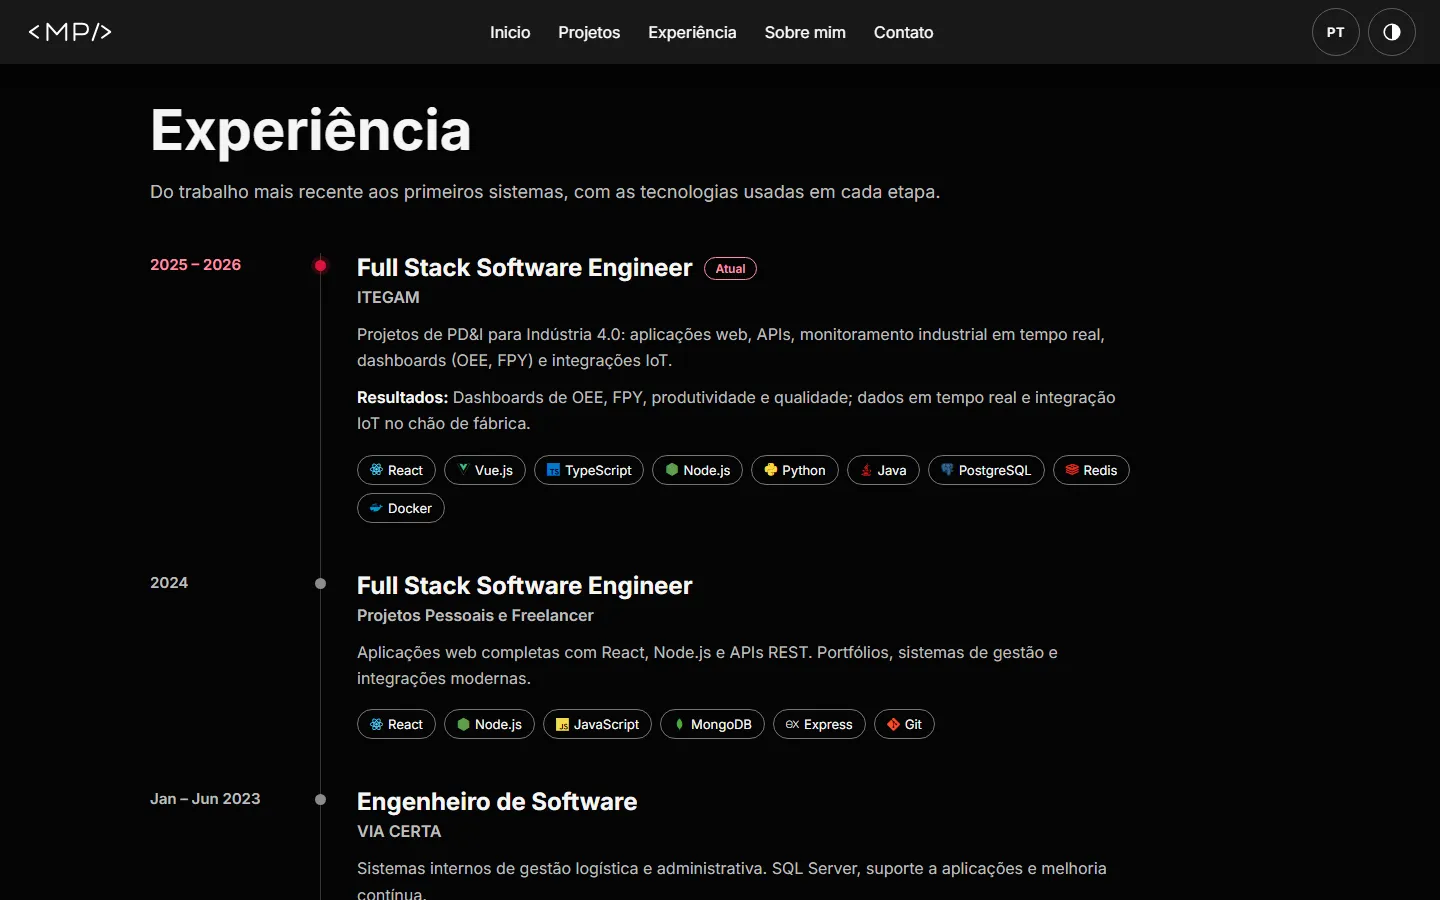
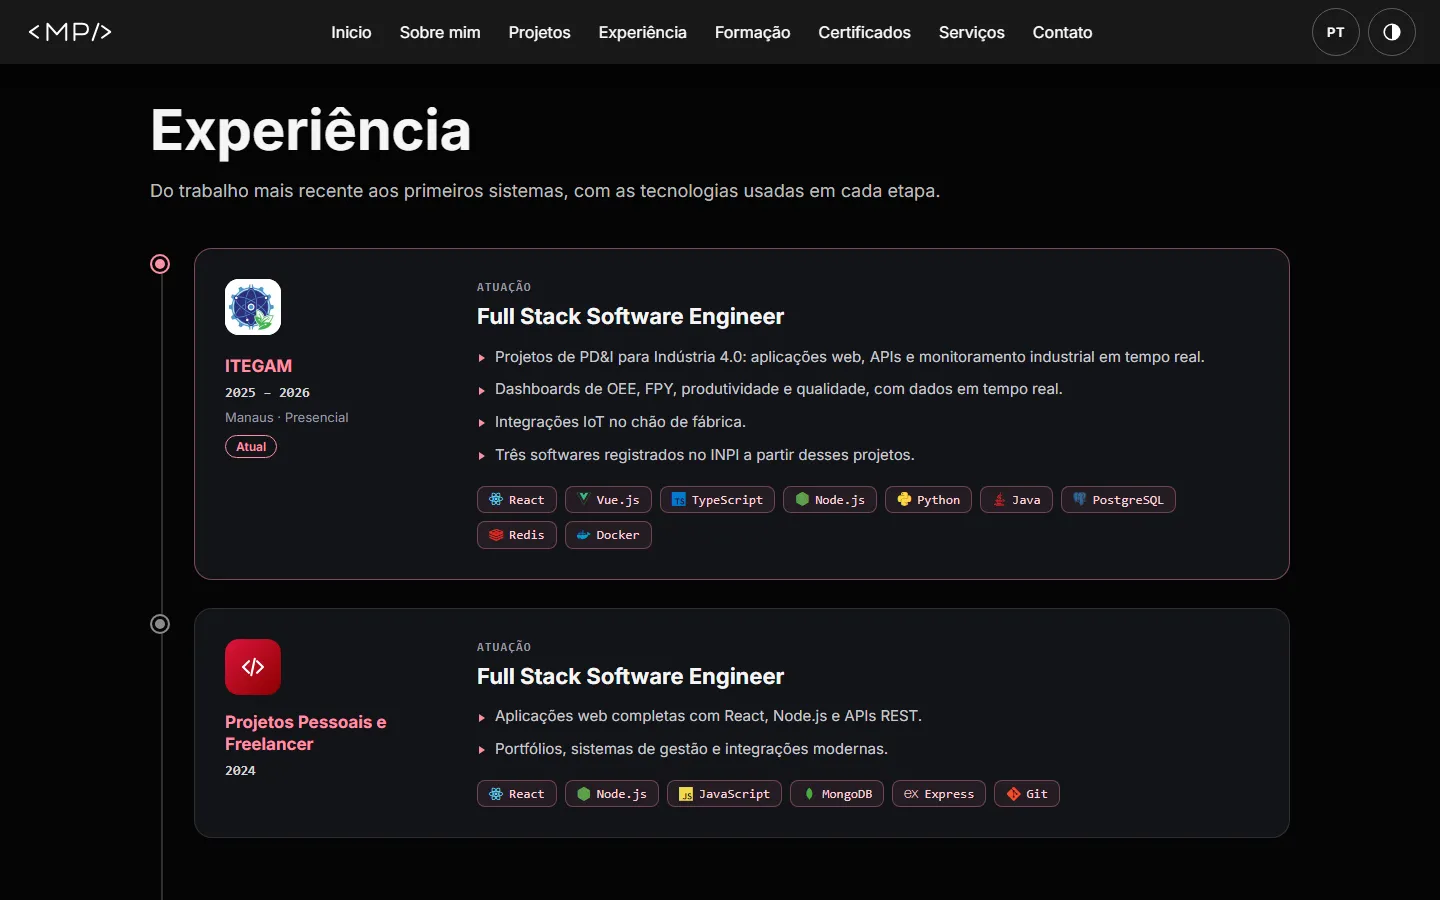
Atualiza as prévias e as seções do README.
- 14 capturas do site atual, na ordem da página, com Formação, Certificados e o visualizador aberto.
- O script espera um título completo no "Eu sou …" antes de capturar o início.
- Lista de seções na ordem atual e sem o Typed.js, que o site não usa mais.

diff --git a/README.md b/README.md
@@ -16,11 +16,17 @@ Portfólio pessoal em React, com projetos, experiência, formação e contato em
 
 ### Início
 
-![Tela inicial com o logo MP, a apresentação, a janela de código matheus.js e os botões Falar comigo e Baixar CV](readme-assets/inicio.webp)
+Nome, títulos que se alternam no "Eu sou …", janela de código com abas e os botões Ver projetos e Falar comigo.
+
+![Tela inicial em vermelho com o nome Matheus Pereira, o texto Eu sou Dev Front-end, a janela de código matheus.js e os botões Ver projetos e Falar comigo](readme-assets/inicio.webp)
+
+### Sobre mim
+
+![Seção Sobre mim com o título Transformo ideias complexas em soluções digitais inteligentes, escaláveis e de alto impacto, o resumo profissional e a foto animada](readme-assets/sobre.webp)
 
 ### Projetos
 
-Carrossel com contador e setas, botão para o GitHub e, nos projetos com deploy, botão para ver o projeto.
+Carrossel com contador e setas. Cada cartão abre um modal com detalhes, botão para o GitHub e, nos projetos com deploy, botão para ver o projeto.
 
 ![Seção Meus Projetos no tema escuro, com o carrossel de cartões](readme-assets/projetos.webp)
 
@@ -33,15 +39,28 @@ Carrossel com contador e setas, botão para o GitHub e, nos projetos com deploy,
 
 ### Experiência
 
-![Linha do tempo de experiência, com o trabalho mais recente primeiro](readme-assets/experiencia.webp)
+![Linha do tempo de experiência, com o trabalho mais recente primeiro e os ícones das tecnologias](readme-assets/experiencia.webp)
 
-### Sobre mim e formação
+### Formação
 
-![Seção Sobre mim com foto, apresentação e lista de formação](readme-assets/sobre.webp)
+![Formação Acadêmica com os cartões da FAMETRO e do ICBEU](readme-assets/formacao.webp)
+
+### Certificados e registros
+
+Registros de software no INPI e cursos no mesmo formato de cartão. Certificados em imagem abrem num visualizador com botão de fechar.
+
+![Seção Certificados e registros com os três registros de software no INPI](readme-assets/certificados.webp)
+
+<details>
+<summary>Ver certificado aberto</summary>
+
+![Visualizador mostrando o certificado de Segurança em Computação em Nuvem, com o botão de fechar no canto](readme-assets/certificado-aberto.webp)
+
+</details>
 
 ### Contato
 
-![Seção de contato com canais diretos, currículo e formulário](readme-assets/contato.webp)
+![Seção de contato com canais diretos, currículo em português e inglês, formulário e o rodapé](readme-assets/contato.webp)
 
 ### Chatbot
 
@@ -50,9 +69,10 @@ Carrossel com contador e setas, botão para o GitHub e, nos projetos com deploy,
 ### No celular
 
 <p>
-  <img src="readme-assets/celular-inicio.webp" alt="Tela inicial no celular" width="250">
-  <img src="readme-assets/celular-projetos.webp" alt="Carrossel de projetos no celular" width="250">
-  <img src="readme-assets/celular-experiencia.webp" alt="Experiência no celular" width="250">
+  <img src="readme-assets/celular-inicio.webp" alt="Tela inicial no celular" width="200">
+  <img src="readme-assets/celular-sobre.webp" alt="Sobre mim no celular" width="200">
+  <img src="readme-assets/celular-projetos.webp" alt="Carrossel de projetos no celular" width="200">
+  <img src="readme-assets/celular-experiencia.webp" alt="Experiência no celular" width="200">
 </p>
 
 > As prévias são geradas com `npm run readme:previews`. Nos cartões de projeto, as imagens com o selo "Ilustração" são mocks, não telas reais.
@@ -70,19 +90,20 @@ Carrossel com contador e setas, botão para o GitHub e, nos projetos com deploy,
 
 ## 📱 Seções
 
-1. **Início:** abertura animada `<MP/>`, apresentação e botões de contato e currículo
-2. **Projetos:** carrossel com os projetos em destaque
-3. **Experiência:** linha do tempo profissional
-4. **Sobre mim:** apresentação, formação, tecnologias e certificações
-5. **Serviços:** o que posso construir ou melhorar
-6. **Blog:** publicações do LinkedIn, quando houver posts cadastrados
-7. **Contato:** canais diretos, currículo e formulário
+1. **Início:** abertura animada `<MP/>`, "Eu sou …" com títulos que se alternam, janela de código e botões Ver projetos e Falar comigo
+2. **Sobre mim:** resumo profissional, números (registros no INPI, projetos, anos de experiência, repositórios), foto animada e tecnologias
+3. **Projetos:** carrossel com os projetos em destaque e modal de detalhes
+4. **Experiência:** linha do tempo profissional
+5. **Formação:** graduação e idiomas
+6. **Certificados e registros:** registros de software no INPI e cursos, com visualizador de certificados
+7. **Serviços:** o que posso construir ou melhorar
+8. **Blog:** publicações do LinkedIn, quando houver posts cadastrados
+9. **Contato:** canais diretos, currículo e formulário
 
 ## 🛠 Tecnologias
 
 - **React 18** e **Vite 5**
 - **CSS** próprio, sem framework
-- **Typed.js:** texto digitado na seção Sobre mim
 - **react-intersection-observer:** entrada das seções ao rolar
 - **EmailJS:** envio do formulário de contato
 - **Font Awesome:** ícones
